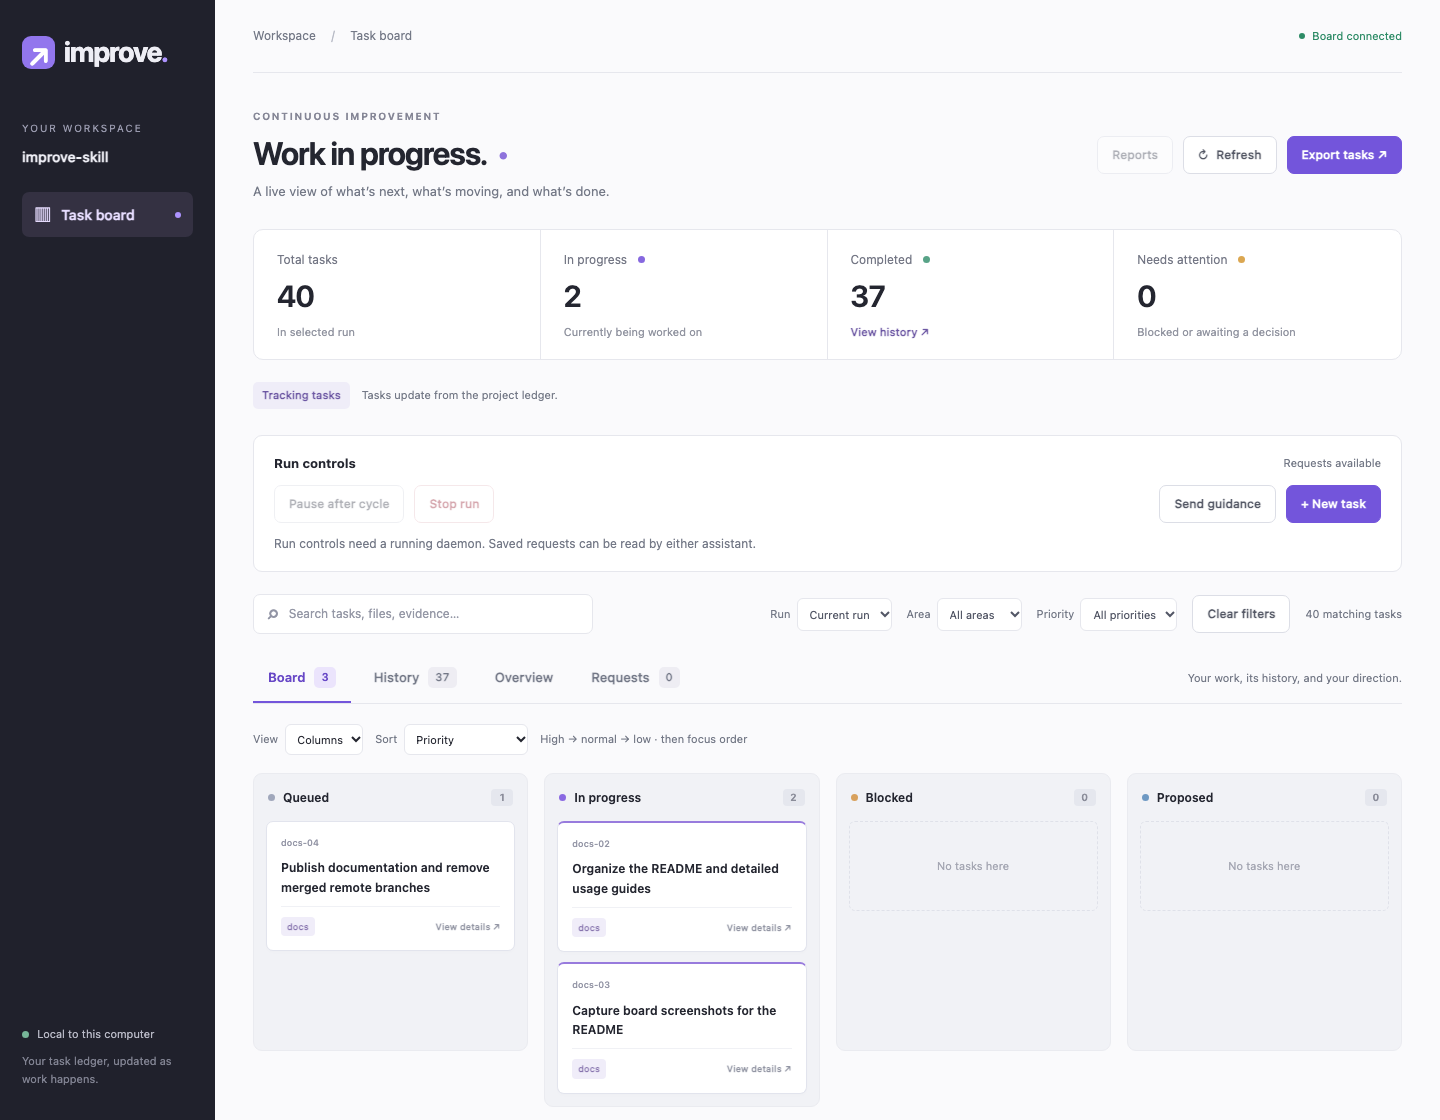
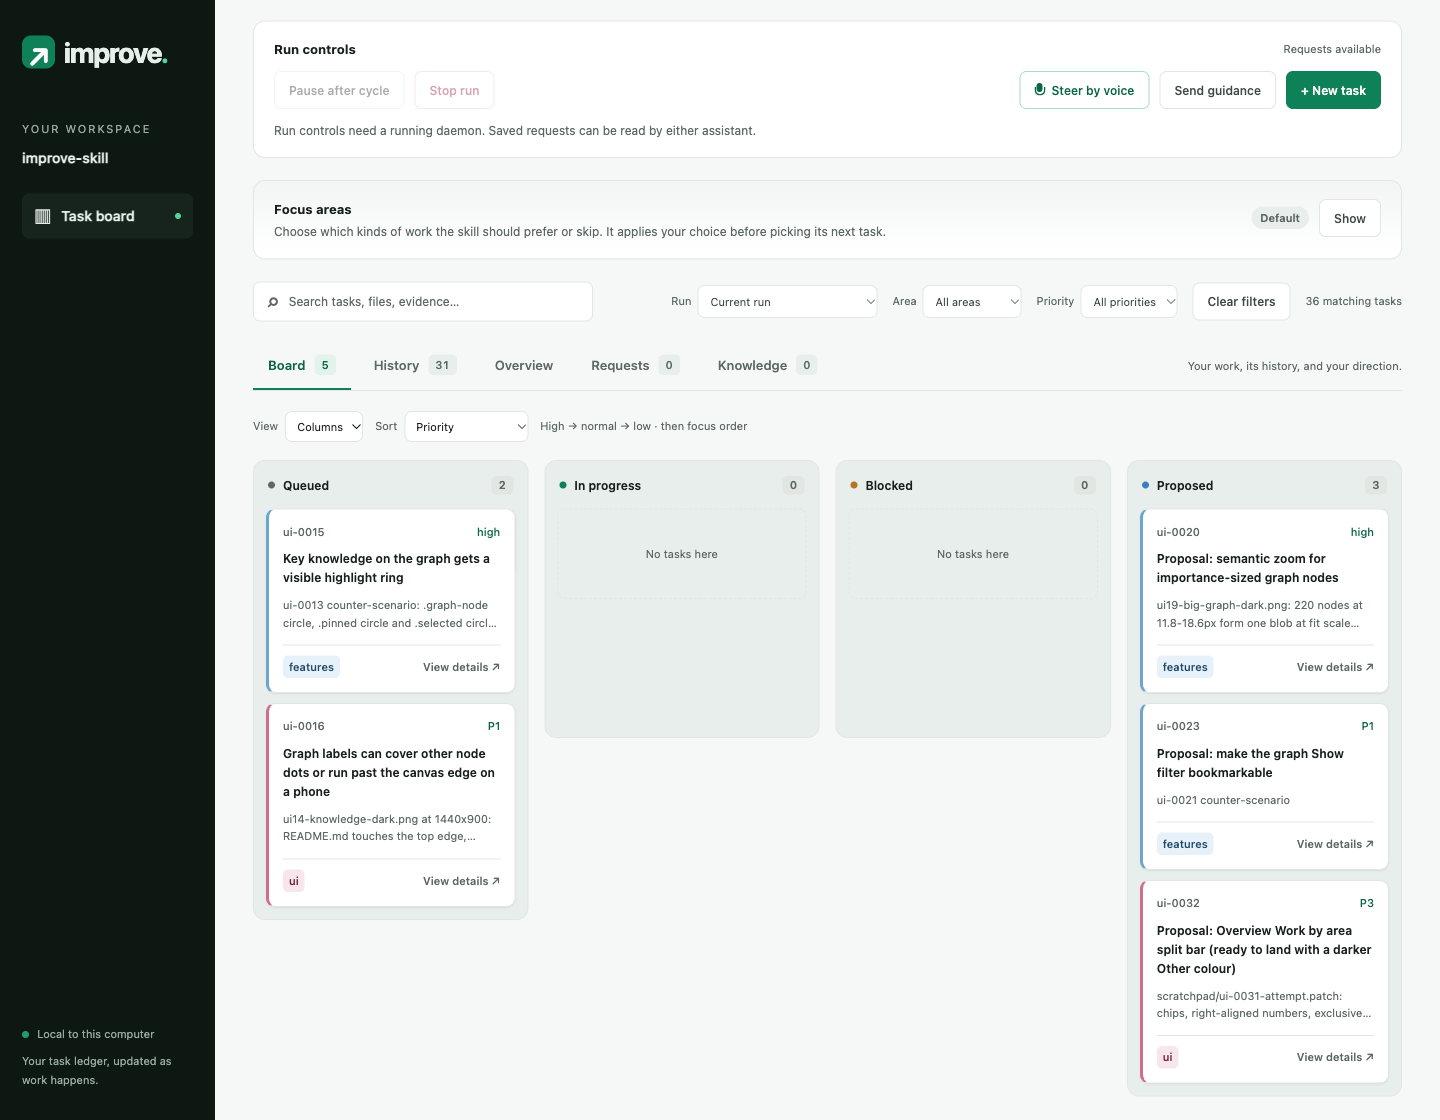
docs: refresh the board screenshots after the green restyle
The README gallery still showed the purple UI from 6485e6c. The new
captures come from this checkout at f95c688, serving a copy of the
run's own ledger, so the data is recorded work rather than a fixture.
The live board was serving the installed skill and was left alone.
The capture notes now record the Board view scroll position and the
Focus areas Hide preference, and the board.png alt text describes
what the image shows.

diff --git a/docs/screenshots/README.md b/docs/screenshots/README.md
@@ -2,31 +2,35 @@
 
 [← Back to the project README](../../README.md#local-board)
 
-These are browser captures of this repository's actual board at
-`http://127.0.0.1:8765`, taken on 2026-10-05 UTC while updating the documentation.
-The UI is from commit `6485e6c`; task state is local, untracked project history.
-The images contain recorded work, not demo fixtures or generated mockups.
+These are browser captures of this repository's own task ledger, taken on 2026-11-14 UTC
+during a timed improvement run of the board UI. The UI is from commit `62bbe79` on
+`improve/2026-11-14`, served by `scripts/improve_board.py` from that checkout against a copy
+of the run's `.improve` ledger (its tasks, discovery notes, and run state). The live board was
+serving the installed copy of the skill at the time, so the copy let the captures show the
+updated UI without disturbing it. The images contain recorded work, not demo fixtures or
+generated mockups.
 
-| Image                        | View                                            |
-| ---------------------------- | ----------------------------------------------- |
-| [board.png](board.png)       | Current run, working columns, and run controls  |
-| [history.png](history.png)   | Current run's completed work in compact rows    |
-| [overview.png](overview.png) | Current run's area totals and recorded activity |
+| Image                        | View                                               |
+| ---------------------------- | -------------------------------------------------- |
+| [board.png](board.png)       | Run controls and the current run's working columns |
+| [history.png](history.png)   | Current run's completed work in compact rows       |
+| [overview.png](overview.png) | Current run's area totals and recorded activity    |
 
-The board was serving during capture; no background improvement daemon was running.
-Unavailable run controls reflect that state. The UI has since gained the run health ages
-and cycle timeline, the Journal, Daemon log, and Quarantine views, notifications, retry and
-withdraw actions, and a dark theme (version 1.15.0); those are not in these images yet. Screenshots are a snapshot, so their counts
-and task statuses will differ from the live board as work continues.
+No background improvement daemon was running, so the run controls are unavailable. The
+Knowledge tab shows 0 because the copy has no knowledge graph. Screenshots are a snapshot:
+their counts and task statuses will differ from the live board as work continues.
 
 To refresh them:
 
 1. Start the board for this checkout with `scripts/improve-board.sh --repo "$PWD" --start`.
 2. Open the returned URL in a clean browser session with a 1440 × 1120 viewport and
-   device scale factor 1. These captures used Chrome through Playwright, with reduced motion.
-3. Capture the initial Board view with `#run=current`.
+   device scale factor 1. These captures used Chrome through Playwright.
+3. For the Board view, open `#run=current`, choose **Hide** on Focus areas (a per-browser
+   preference that does not change the run), and scroll Run controls to 20 pixels below the
+   top of the viewport so the working columns are in view.
 4. Open `#view=history&run=current&outcome=done`, then `#view=overview&run=current`.
-   For these views, scroll the tab bar to 24 pixels below the top of the viewport.
+   For these views, scroll the tab bar to 24 pixels below the top of the viewport, or as far
+   as the page allows.
 5. Save each viewport as the matching PNG above. Inspect the images and update this
    capture date/revision when replacing them. Do not fabricate task data for the gallery.
 

diff --git a/README.md b/README.md
@@ -98,7 +98,7 @@ git log --oneline "$baseline_commit..improve/$date"
 The board is a local web app served from `127.0.0.1`. It reads the run's ledgers directly,
 stays available after the run ends, and includes archived runs.
 
-![Local board showing active documentation tasks, working columns, and run controls](docs/screenshots/board.png)
+![Local board showing run controls and the working columns with queued board tasks and proposals](docs/screenshots/board.png)
 
 **Work in progress.** Four working columns or a compact worklist; sort and filter by
 priority; select up to fifty tasks for a bulk priority change; open any task for its
